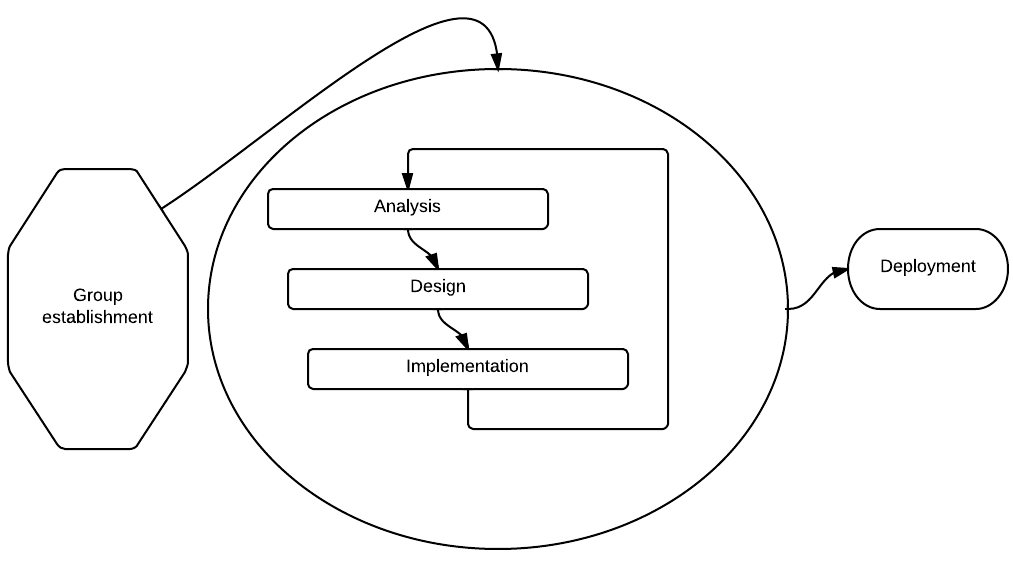
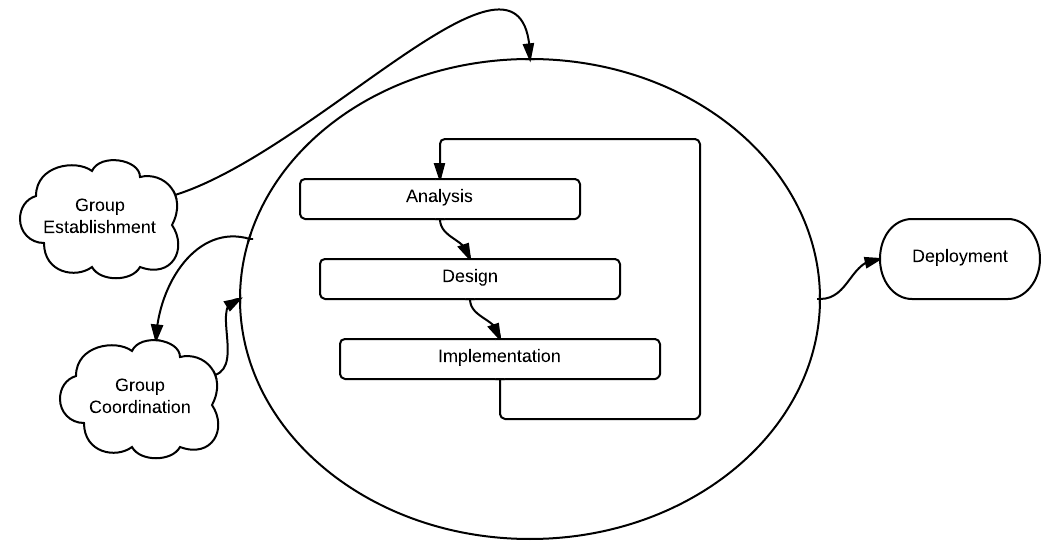
Method work in progress

diff --git a/documents/chapters/method.tex b/documents/chapters/method.tex
@@ -8,6 +8,10 @@ In our design of a policy engine, we decided to use an iterative design approach
 
 For the front-end design an iterative design approach is commonly used. This allows designers to identify any usability issues that may arise in the user interface before it is put into wide use. Even the best usability experts cannot design perfect user interfaces in a single attempt, so a usability engineering life cycle should be built around the concept of iteration. \cite{Nielsen1993}
 
+Finally, when our goal was reached, we deployed the solution to our server.
+
+The figure below (\ref{fig:workflow} illustrates the different phases of our project.
+
 \begin{figure}[ht]
 \centering
 \includegraphics[width=\columnwidth]{images/workflow.png}
@@ -15,10 +19,10 @@ For the front-end design an iterative design approach is commonly used. This all
 \label{fig:workflow}
 \end{figure}
 
-We ended up doing three major iterations:
+Each of the steps was important for the process and contains both valuable tasks. As the figure shows, the iterative process in the middle is a repetitive process. Even though we were through this multiple times, we will only highlight the three major iterations. These iterations are coherent with the project plan and follows our general approach to the project. All of the three iterations contains multiple inclusive, but by assessing the artefact also smaller, iterations. Describing each iteration would be a some what cumbersome process.
 
 \subsection{1. Iteration}
-Forbinde til deres services
+Our focus during the first iteration was to get the group work to flow and figure out how to handle the data services provided by the Danish university. In this step everything was related to getting to know each other and figuring out how to move the project forward. The artefacts produced here was very low level, such as diagrams of the group members programming skills, use case digrams and the likes. 
 
 \subsection{2. Iteration}
 Spille sammen med vores datamodel
